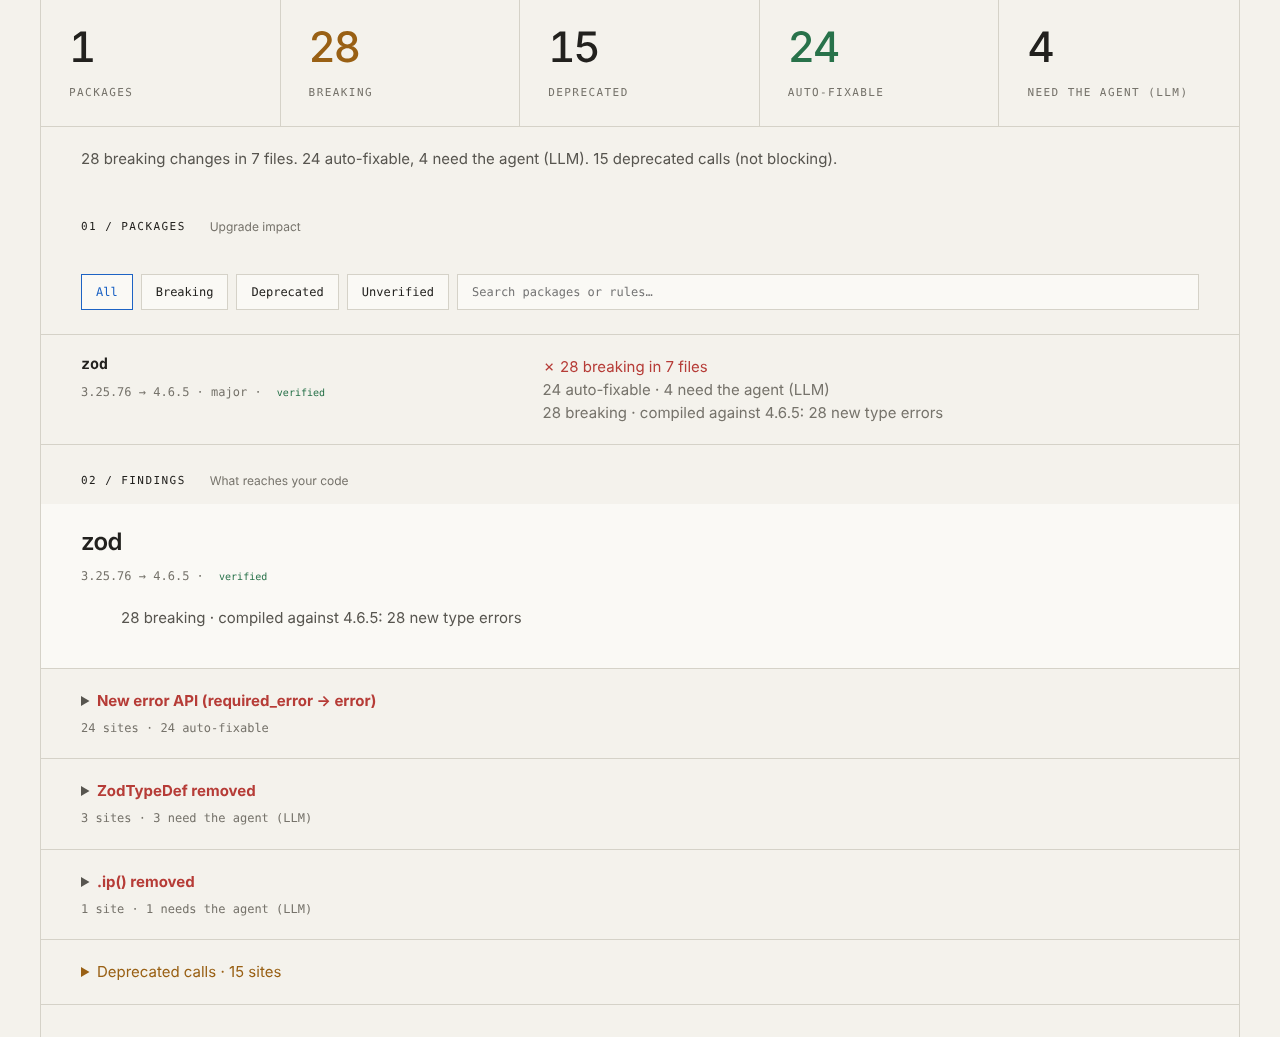
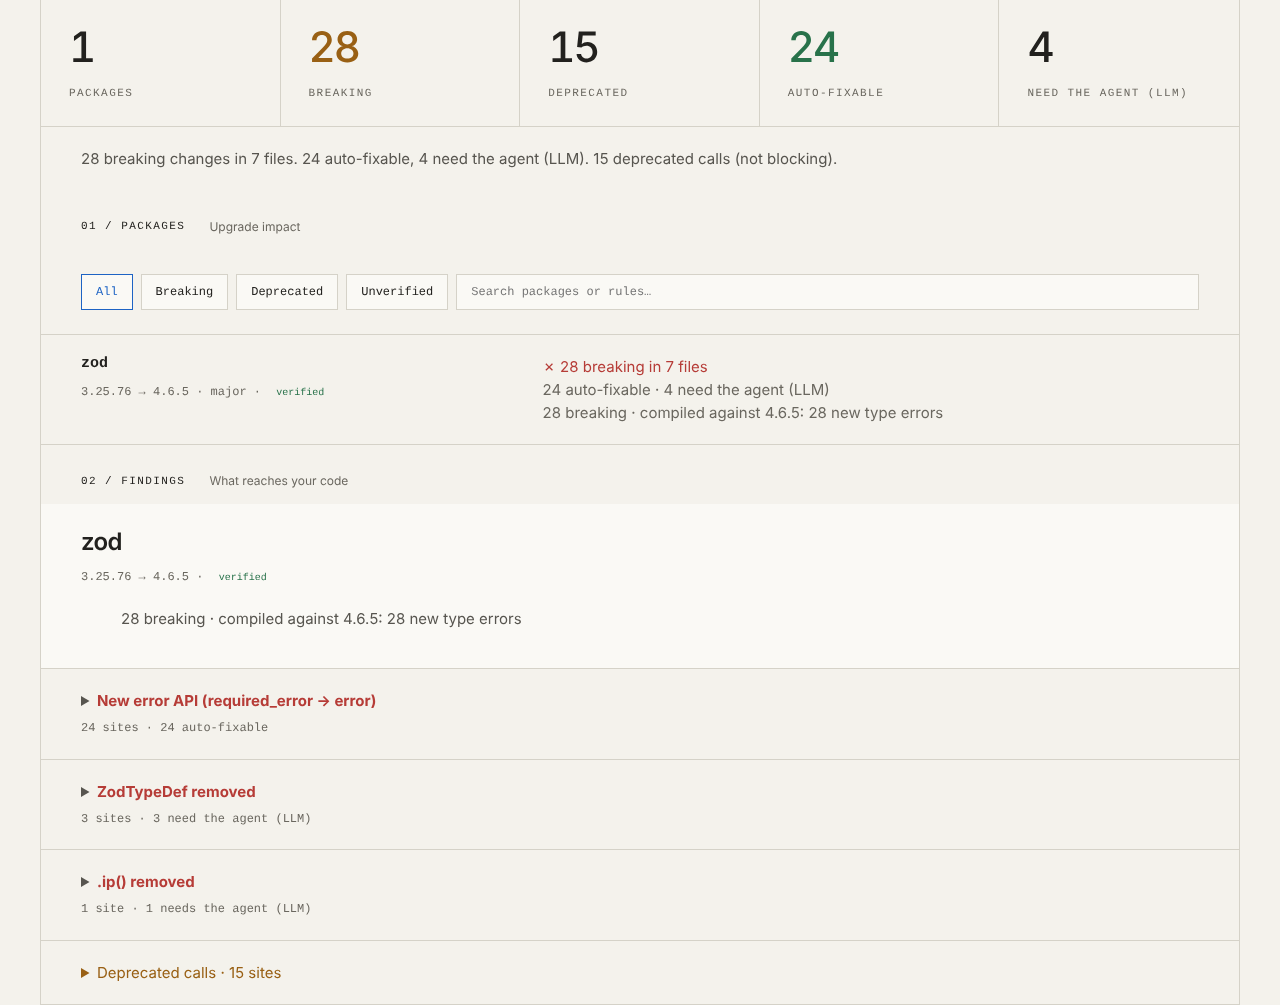
chore(cli): readable dim text in the report's light theme; docs homepage (#56)
## What and why

- **Contrast.** The HTML report's light theme dims text with `#6A675F`
instead of `#76736B`. On the `#F4F2EC` background that is 5.05:1, up
from 4.23:1, which was below WCAG AA's 4.5:1 for body text. A
case-insensitive search of the whole repository found one use of
`#76736B`: the light theme's `--dim` in
`packages/cli/src/html/assets.ts`. No docs or screenshot generator
references it. The dark theme (`--dim:#918E83`) and the print styles are
untouched.
- **Homepage.** `packages/cli/package.json` `homepage` is now
https://uptide-dev.github.io/docs (was the GitHub README).
- **README screenshot.** `docs/screenshots/readme/check.png` is rendered
again from this build, following `docs/screenshots/readme/README.md`:
`uptide check zod --html` on the public `fixtures/repos/storefront`
fixture, `header.hero`, `section.next` and `footer` hidden, light color
scheme, 1280 wide, trimmed below the zod section. The content is the
same as before; the dim text (labels, versions, counts) is darker.

## How it was verified

- Contrast is computed with the WCAG relative-luminance formula:
`#76736B` on `#F4F2EC` is 4.23:1, and `#6A675F` is 5.05:1.
- The rendered report contains `--dim:#6A675F` in the light theme.
- `pnpm lint`, `pnpm typecheck` and `pnpm test` pass (uptide 350/350;
core 927 passed, 15 skipped).
- The new homepage URL could not be opened from the environment this ran
in, which blocks github.io. It should be checked once it's live.

## Checklist
[…]

diff --git a/packages/cli/src/html/assets.ts b/packages/cli/src/html/assets.ts
@@ -1,5 +1,5 @@
 export const css = `
-:root{color-scheme:light;--bg:#F4F2EC;--surface:#FAF9F5;--line:#D5D2C8;--text:#22211E;--body:#57554F;--dim:#76736B;--accent:#1D63C4;--ok:#28724A;--warn:#996014;--bad:#B63C37;--display:'Space Grotesk',system-ui,sans-serif;--sans:'Instrument Sans',system-ui,-apple-system,sans-serif;--mono:'IBM Plex Mono',ui-monospace,SFMono-Regular,Menlo,monospace;--border:var(--line);--panel:var(--surface);--muted:var(--dim);--red:var(--bad);--green:var(--ok);--amber:var(--warn);--gray:var(--body)}
+:root{color-scheme:light;--bg:#F4F2EC;--surface:#FAF9F5;--line:#D5D2C8;--text:#22211E;--body:#57554F;--dim:#6A675F;--accent:#1D63C4;--ok:#28724A;--warn:#996014;--bad:#B63C37;--display:'Space Grotesk',system-ui,sans-serif;--sans:'Instrument Sans',system-ui,-apple-system,sans-serif;--mono:'IBM Plex Mono',ui-monospace,SFMono-Regular,Menlo,monospace;--border:var(--line);--panel:var(--surface);--muted:var(--dim);--red:var(--bad);--green:var(--ok);--amber:var(--warn);--gray:var(--body)}
 @media(prefers-color-scheme:dark){:root:not([data-theme=light]){color-scheme:dark;--bg:#131210;--surface:#1B1A17;--line:#36342F;--text:#F0EEE7;--body:#BCB9AF;--dim:#918E83;--accent:#7CC4FF;--ok:#86C99F;--warn:#E8B66B;--bad:#ED9990}}
 :root[data-theme=dark]{color-scheme:dark;--bg:#131210;--surface:#1B1A17;--line:#36342F;--text:#F0EEE7;--body:#BCB9AF;--dim:#918E83;--accent:#7CC4FF;--ok:#86C99F;--warn:#E8B66B;--bad:#ED9990}
 *{box-sizing:border-box}body{margin:0;background:var(--bg);color:var(--text);font:15px/1.55 var(--sans);-webkit-font-smoothing:antialiased}main{max-width:1200px;margin:auto;border-left:1px solid var(--line);border-right:1px solid var(--line);min-height:100vh}h1,h2,h3{font-family:var(--display);font-weight:600;line-height:1.15;margin:0}h1{font-size:clamp(32px,4.5vw,56px);letter-spacing:-.045em;overflow-wrap:anywhere}h2{font-size:24px;letter-spacing:-.025em}h3{font-size:16px}p{margin:8px 0;overflow-wrap:anywhere}a{color:var(--accent);overflow-wrap:anywhere}code,pre,.mono{font-family:var(--mono);font-size:12px}code{overflow-wrap:anywhere}.muted,.meta{color:var(--dim)}.label{font:11px var(--mono);letter-spacing:.13em;text-transform:uppercase;color:var(--dim)}.brand{display:flex;align-items:center;gap:9px;font:600 24px var(--display);letter-spacing:-.04em}.brand svg{color:var(--accent);width:31px;height:31px;flex-shrink:0}.report-top{display:flex;align-items:center;justify-content:space-between;margin-bottom:40px;gap:20px}.hero{padding:28px 40px 32px;border-bottom:1px solid var(--line)}.dots{background-image:radial-gradient(color-mix(in srgb,var(--dim) 24%,transparent) .7px,transparent .7px);background-size:18px 18px}.hero h1{margin:12px 0 20px}.meta{display:flex;gap:8px 24px;flex-wrap:wrap;font:11px/1.8 var(--mono)}.meta span,.meta time{overflow-wrap:anywhere}.stats{display:grid;grid-template-columns:repeat(var(--stat-count,5),minmax(0,1fr));border-bottom:1px solid var(--line)}.stat{padding:24px 28px;border-right:1px solid var(--line)}.stat:last-child{border:0}.stat strong{display:block;font:500 42px/1.1 var(--display);letter-spacing:-.05em;margin-bottom:9px;font-variant-numeric:tabular-nums}.stat.warn strong{color:var(--warn)}.stat.safe strong{color:var(--ok)}.section-label{display:flex;gap:24px;align-items:center;padding:28px 40px 16px}.section-label h2{font:11px var(--mono);letter-spacing:.13em;text-transform:uppercase}.section-label p{font:12px var(--sans);color:var(--dim);margin:0}.package{border-bottom:1px solid var(--line)}.package>header{padding:24px 40px 18px;background:var(--surface)}.package>header h2{margin-bottom:7px}.package>header .term{margin-top:18px}.member-grid{display:grid;grid-template-columns:minmax(170px,1.15fr) minmax(166px,1fr) 85px minmax(150px,1fr);gap:20px;padding:18px 40px;border-top:1px solid var(--line);align-items:baseline}.member-grid>div{min-width:0}.member-grid .pkg-name{font:600 13px var(--mono);overflow-wrap:anywhere}.versions{font:12px var(--mono);white-space:nowrap}.gap{font:12px var(--mono);color:var(--warn)}.usage{font:12px/1.7 var(--mono)}.verified{color:var(--ok);font:10px var(--mono);display:inline-block;margin-left:8px}.details-line{grid-column:1/-1;color:var(--dim);font:12px var(--mono)}.term,.command{display:flex;align-items:stretch;gap:0;border:1px solid var(--line);background:var(--bg);margin:0;min-width:0}.term code,.command code{padding:13px 16px;flex:1;min-width:0;white-space:pre-wrap;line-height:1.7}.term code::before{content:'$ ';color:var(--dim);user-select:none}button,input{font:12px var(--mono);border:1px solid var(--line);border-radius:0;color:var(--text);background:var(--surface);padding:10px 14px}button{cursor:pointer}.copy,[data-copy]{border:0;border-left:1px solid var(--line);padding:10px 18px;align-self:stretch;color:var(--body);white-space:nowrap}.copy:hover,button:hover{background:color-mix(in srgb,var(--accent) 7%,var(--surface));color:var(--accent)}button:focus-visible,input:focus-visible,summary:focus-visible,a:focus-visible{outline:2px solid var(--accent);outline-offset:3px}button[aria-pressed=true]{color:var(--accent);border-color:var(--accent)}.notes{border-bottom:1px solid var(--line)}details{border-top:1px solid var(--line)}summary{padding:20px 40px;cursor:pointer;color:var(--body)}summary:hover{background:var(--surface)}summary .counts{display:block;font:12px/1.7 var(--mono);color:var(--dim);margin-top:6px}.notes>summary{font:11px var(--mono);letter-spacing:.1em;text-transform:uppercase;list-style:none}.notes>summary::after{content:'+';float:right;color:var(--accent)}.notes[open]>summary::after{content:'−'}.notes ul{padding:0 60px 16px}.group-note{margin:12px 40px}.site{padding:16px 40px;border-top:1px solid var(--line)}.more{padding:12px 40px;color:var(--body)}.summary{border-bottom:1px solid var(--line)}.dep{display:grid;grid-template-columns:minmax(220px,1fr) 1.5fr;gap:24px;padding:20px 40px;border-top:1px solid var(--line);color:var(--text);text-decoration:none}.dep strong{display:block;font:600 15px var(--mono);margin-bottom:6px}.breaking{color:var(--bad)}.deprecated{color:var(--warn)}.safe{color:var(--ok)}.unverified{color:var(--body)}.next{padding:28px 40px;border-bottom:1px solid var(--line)}.next h2{font:11px var(--mono);letter-spacing:.13em;text-transform:uppercase;margin-bottom:20px}.next .command{margin:10px 0 20px}.filters{display:flex;gap:8px;padding:24px 40px;flex-wrap:wrap}.filters input{flex:1;min-width:180px}.notice{border-left:2px solid var(--accent);padding:8px 16px;margin:20px 40px;color:var(--body)}pre{margin:12px 0 0;padding:8px 0;background:var(--surface);border:1px solid var(--line);overflow:auto;tab-size:2}.code-line{display:block;padding:0 12px;min-height:1.5em}.number{display:inline-block;width:4ch;margin-right:12px;text-align:right;color:var(--dim);user-select:none}.hit{background:color-mix(in srgb,var(--accent) 10%,var(--surface));border-left:2px solid var(--accent);padding-left:10px}.compiler{margin-top:8px;border:0}.compiler summary{padding:4px 0;font-size:12px;color:var(--dim)}.compiler pre{white-space:pre-wrap;overflow-wrap:anywhere;padding:12px}footer{padding:26px 40px;color:var(--dim);font:11px/1.9 var(--mono)}[hidden]{display:none!important}

diff --git a/.changeset/report-dim-contrast.md b/.changeset/report-dim-contrast.md
@@ -1,0 +1,6 @@
+---
+"uptide": patch
+---
+
+The HTML report's light theme uses `#6A675F` for dimmed text (5.1:1 on the page background,
+was 4.2:1, below WCAG AA's 4.5:1), and the package's homepage is https://uptide-dev.github.io/docs.
